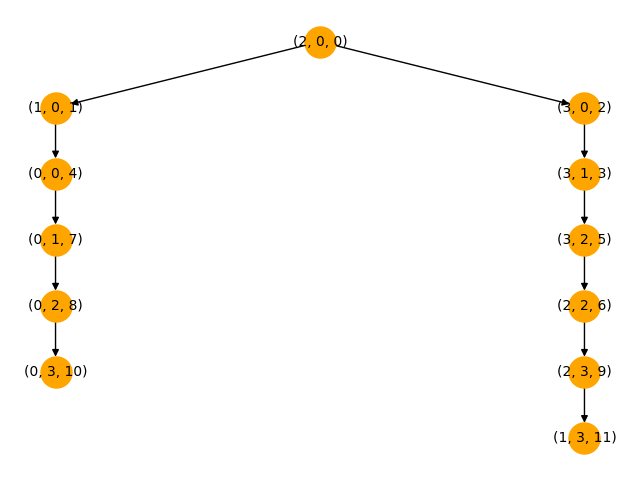
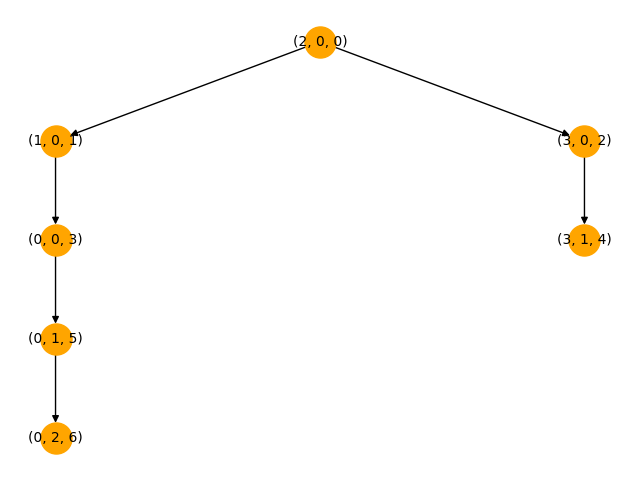
nombres_algoritmos

diff --git a/busquedas_no_informadas/profundidad_iterativa.py b/busquedas_no_informadas/profundidad_iterativa.py
@@ -14,7 +14,7 @@ def reconstruir_camino(nodo):
 
 def inicializar_estructura(lista_nodos_iniciales, visitado):
     for nodo in lista_nodos_iniciales:
-        visitado[nodo.fila][nodo.columna] = True
+        visitado[(nodo.fila, nodo.columna)] = True
     lista_nodos_iniciales.reverse()
     return lista_nodos_iniciales
 
@@ -31,29 +31,25 @@ def busqueda_profundidad_iterativa(tablero, lista_nodos_iniciales, meta, maximo_
         while pila_iterativa:
             nodo_actual = pila_iterativa.pop()
 
-            # Verificar si llegamos al nodo final
-            if padre.fila == fila_final and padre.colum == columna_final:
-                caminito = reconstruir_camino(padre)
-                print("Camino completo:", caminito)
-                visualizar_arbol_jerarquico(arbol_conexiones, fila_inicio, columna_inicio, 0, caminito)
-                return True
+            # Verificar si hemos alcanzado el nodo meta
+            if nodo_actual.fila == fila_final and nodo_actual.columna == columna_final:
+                return (True, reconstruir_camino(nodo_actual))
 
-            # Marcar nodo como visitado
-            if not visitado[padre.fila][padre.colum]:
-                visitado[padre.fila][padre.colum] = True
+            # Evitar expandir más allá del límite de profundidad
+            if nodo_actual.profundidad < limite:
                 hijos_temp = []
                 for movimiento in [(-1, 0), (0, 1), (1, 0), (0, -1)]:
                     nueva_fila = nodo_actual.fila + movimiento[0]
                     nueva_colum = nodo_actual.columna + movimiento[1]
 
-                    if es_valido(nueva_fila, nueva_colum, tablero) and tablero[nueva_fila][nueva_colum] != '#' and not visitado[nueva_fila][nueva_colum]:
+                    if es_valido(nueva_fila, nueva_colum, tablero) and tablero[nueva_fila][nueva_colum] != '#' and not visitado.get((nueva_fila, nueva_colum), False):
                         heuristica = calcular_heuristica(nueva_fila, nueva_colum, fila_final, columna_final)
-                        nuevo_nodo = Nodo(nueva_fila, nueva_colum, nodo_actual.costo + 1, heuristica, nodo_actual.pasos + 1, nodo_actual)
+                        nuevo_nodo = Nodo(nueva_fila, nueva_colum, nodo_actual.costo + 1, heuristica, nodo_actual)
                         hijos_temp.append(nuevo_nodo)
-                        visitado[nueva_fila][nueva_colum] = True
+                        visitado[(nueva_fila, nueva_colum)] = True
                         graph.graficar_arbol(nuevo_nodo)
+
                 # Expandir nodos en el orden especificado por invertir_orden
-                hijos_temp.reverse()
                 if invertir_orden:
                     hijos_temp.reverse()  # Invertir para procesar en el orden contrario
                 pila_iterativa.extend(hijos_temp)
@@ -65,22 +61,7 @@ def busqueda_profundidad_iterativa(tablero, lista_nodos_iniciales, meta, maximo_
         pila = siguiente_pila[::-1]
         invertir_orden = not invertir_orden  # Alternar el orden para la siguiente iteración
 
-    return (False, [])  # Si no se encuentra la meta dentro del límite dado
+    return (False, [ ])  # Si no se encuentra la meta dentro del límite dado
 
 if __name__ == "__main__":
     busqueda_profundidad_iterativa()
-
-
-
-
-
-
-
-
-
-
-
-
-
-
-

diff --git a/busquedas_no_informadas/Amplitud.py b/busquedas_no_informadas/Amplitud.py
@@ -3,8 +3,6 @@ import networkx as nx
 import matplotlib.pyplot as plt
 from clase_nodo.class_nodo import Nodo, calcular_heuristica
 
-arbol_conexiones = []  # Lista para almacenar las conexiones del árbol
-
 
 def es_valido(fila, columna, tablero):
     n, m = len(tablero), len(tablero[0])
@@ -23,7 +21,7 @@ def inicializar_estrucuras_de_datos(lista_nodos_iniciales, visitado):
         visitado[(nodo.fila, nodo.columna)] = True
     return lista_nodos_iniciales
 
-def bfs(tablero, lista_nodos_iniciales, meta, maximo_iteraciones, visitado, graph):
+def busqueda_Amplitud(tablero, lista_nodos_iniciales, meta, maximo_iteraciones, visitado, graph):
     fila_final, columna_final = meta
  
     cola = deque(inicializar_estrucuras_de_datos(lista_nodos_iniciales, visitado))
@@ -34,7 +32,6 @@ def bfs(tablero, lista_nodos_iniciales, meta, maximo_iteraciones, visitado, grap
         
         if nodo_actual.profundidad == maximo_iteraciones:
             cola.insert(0, nodo_actual)
-            print(cola)
             return (False,  list(cola))
 
         fila, columna = nodo_actual.fila, nodo_actual.columna
@@ -48,7 +45,7 @@ def bfs(tablero, lista_nodos_iniciales, meta, maximo_iteraciones, visitado, grap
             
             if es_valido(nueva_fila, nueva_columna, tablero) and not visitado.get((nueva_fila, nueva_columna), False):
                 heuristica = calcular_heuristica(nueva_fila, nueva_columna, fila_final, columna_final)
-                nuevo_nodo = Nodo(nueva_fila, nueva_columna, nodo_actual.costo + 1, heuristica, nodo_actual.pasos + 1, nodo_actual)
+                nuevo_nodo = Nodo(nueva_fila, nueva_columna, nodo_actual.costo + 1, heuristica, nodo_actual)
                 cola.append(nuevo_nodo)
                 visitado[(nueva_fila, nueva_columna)] = True
                 graph.graficar_arbol(nuevo_nodo)
@@ -60,5 +57,5 @@ def bfs(tablero, lista_nodos_iniciales, meta, maximo_iteraciones, visitado, grap
     
 
 if __name__ == "__main__":
-    bfs()  # Ejecutar BFS y obtener el camino
+    busqueda_Amplitud()  # Ejecutar BFS y obtener el camino
   

diff --git a/busquedas_no_informadas/costoUniforme.py b/busquedas_no_informadas/costoUniforme.py
@@ -20,7 +20,7 @@ def inicializar_estrucuras_de_datos(lista_nodos_iniciales, visitado):
         cola.put((nodo.costo, nodo))
     return cola
 
-def ucs(tablero, lista_nodos_iniciales, meta, maximo_iteraciones,visitado, graph):
+def busqueda_Costouniforme(tablero, lista_nodos_iniciales, meta, maximo_iteraciones,visitado, graph):
 
     fila_final, columna_final = meta
     cola = inicializar_estrucuras_de_datos(lista_nodos_iniciales, visitado)
@@ -49,7 +49,7 @@ def ucs(tablero, lista_nodos_iniciales, meta, maximo_iteraciones,visitado, graph
             
             if es_valido(nueva_fila, nueva_colum, tablero) and tablero[nueva_fila][nueva_colum] != '#' and not visitado.get((nueva_fila, nueva_colum), False):
                 heuristica = calcular_heuristica(nueva_fila, nueva_colum, fila_final, columna_final)
-                nuevo_nodo = Nodo(nueva_fila, nueva_colum, nodo_actual.costo + 1, heuristica,  nodo_actual.pasos + 1, nodo_actual)
+                nuevo_nodo = Nodo(nueva_fila, nueva_colum, nodo_actual.costo + 1, heuristica, nodo_actual)
              
                 visitado[(nueva_fila, nueva_colum)] = True
                 cola.put((nuevo_nodo.costo, nuevo_nodo))
@@ -59,4 +59,4 @@ def ucs(tablero, lista_nodos_iniciales, meta, maximo_iteraciones,visitado, graph
     return None
 
 if __name__ == "__main__":
-    ucs()  # Ejecutar UCS y obtener el camino
+    busqueda_Costouniforme()  # Ejecutar busqueda_Costouniforme y obtener el camino

diff --git a/busquedas_no_informadas/limitada_profundidad.py b/busquedas_no_informadas/limitada_profundidad.py
@@ -20,7 +20,7 @@ def inicializar_estrucuras_de_datos(lista_nodos_iniciales, visitado):
     lista_nodos_iniciales.reverse()  
     return  lista_nodos_iniciales
 
-def dls_limitProfundidad(tablero, lista_nodos_iniciales, meta, maximo_iteraciones, visitado, graph):
+def busqueda_Limitaprofundidad(tablero, lista_nodos_iniciales, meta, maximo_iteraciones, visitado, graph):
     fila_final, columna_final = meta
     # Pila para realizar DFS
     pila = inicializar_estrucuras_de_datos(lista_nodos_iniciales, visitado)
@@ -49,7 +49,7 @@ def dls_limitProfundidad(tablero, lista_nodos_iniciales, meta, maximo_iteracione
 
             if es_valido(nueva_fila, nueva_colum, tablero) and tablero[nueva_fila][nueva_colum] != '#' and not visitado.get((nueva_fila, nueva_colum), False):
                 heuristica = calcular_heuristica(nueva_fila, nueva_colum, fila_final, columna_final)
-                nuevo_nodo = Nodo(nueva_fila, nueva_colum, nodo_actual.costo + 1, heuristica, nodo_actual.pasos + 1, nodo_actual)
+                nuevo_nodo = Nodo(nueva_fila, nueva_colum, nodo_actual.costo + 1, heuristica, nodo_actual)
                 
                 hijos_temp.append(nuevo_nodo) 
                 visitado[(nueva_fila, nueva_colum)] = True
@@ -62,4 +62,4 @@ def dls_limitProfundidad(tablero, lista_nodos_iniciales, meta, maximo_iteracione
     return None
 
 if __name__ == "__main__":
-   dls_limitProfundidad()
+   busqueda_Limitaprofundidad()

diff --git a/busquedas_no_informadas/Profundidad.py b/busquedas_no_informadas/Profundidad.py
@@ -20,7 +20,7 @@ def inicializar_estrucuras_de_datos(lista_nodos_iniciales, visitado):
     lista_nodos_iniciales.reverse()  
     return  lista_nodos_iniciales
 
-def dfs_izquierda_derecha(tablero, lista_nodos_iniciales, meta, maximo_iteraciones, visitado, graph):
+def busqueda_Profundidad(tablero, lista_nodos_iniciales, meta, maximo_iteraciones, visitado, graph):
     fila_final, columna_final = meta
     # Pila para realizar DFS
     pila = inicializar_estrucuras_de_datos(lista_nodos_iniciales, visitado)
@@ -49,7 +49,7 @@ def dfs_izquierda_derecha(tablero, lista_nodos_iniciales, meta, maximo_iteracion
 
             if es_valido(nueva_fila, nueva_colum, tablero) and tablero[nueva_fila][nueva_colum] != '#' and not visitado.get((nueva_fila, nueva_colum), False):
                 heuristica = calcular_heuristica(nueva_fila, nueva_colum, fila_final, columna_final)
-                nuevo_nodo = Nodo(nueva_fila, nueva_colum, nodo_actual.costo + 1, heuristica, nodo_actual.pasos + 1, nodo_actual)
+                nuevo_nodo = Nodo(nueva_fila, nueva_colum, nodo_actual.costo + 1, heuristica, nodo_actual)
                 
                 hijos_temp.append(nuevo_nodo) 
                 visitado[(nueva_fila, nueva_colum)] = True
@@ -62,4 +62,4 @@ def dfs_izquierda_derecha(tablero, lista_nodos_iniciales, meta, maximo_iteracion
     return None
 
 if __name__ == "__main__":
-    dfs_izquierda_derecha()
+    busqueda_Profundidad()

diff --git a/main.py b/main.py
@@ -1,8 +1,8 @@
-from busquedas_no_informadas.Amplitud import  bfs
-from busquedas_no_informadas.Profundidad import  dfs_izquierda_derecha
-from busquedas_no_informadas.costoUniforme import ucs
+from busquedas_no_informadas.Amplitud import  busqueda_Amplitud
+from busquedas_no_informadas.Profundidad import  busqueda_Profundidad
+from busquedas_no_informadas.costoUniforme import busqueda_Costouniforme
 from busquedas_no_informadas.Avara import busqueda_avara
-from busquedas_no_informadas.limitada_profundidad import dls_limitProfundidad
+from busquedas_no_informadas.limitada_profundidad import busqueda_Limitaprofundidad
 from busquedas_no_informadas.profundidad_iterativa import busqueda_profundidad_iterativa
 
 
@@ -11,7 +11,7 @@ from clase_nodo.class_nodo import Nodo
 
 
 visitado = {}
-lista_algoritmos = [dfs_izquierda_derecha, busqueda_avara, ucs, bfs, dls_limitProfundidad]
+lista_algoritmos = [busqueda_Amplitud, busqueda_Profundidad]
 
 
 tablero = [

diff --git a/busquedas_no_informadas/Avara.py b/busquedas_no_informadas/Avara.py
@@ -49,7 +49,7 @@ def busqueda_avara(tablero, lista_nodos_iniciales, meta, maximo_iteraciones,visi
             
             if es_valido(nueva_fila, nueva_colum, tablero) and tablero[nueva_fila][nueva_colum] != '#' and not visitado.get((nueva_fila, nueva_colum), False):
                 heuristica = calcular_heuristica(nueva_fila, nueva_colum, fila_final, columna_final)
-                nuevo_nodo = Nodo(nueva_fila, nueva_colum, nodo_actual.costo + 1, heuristica,  nodo_actual.pasos + 1, nodo_actual)
+                nuevo_nodo = Nodo(nueva_fila, nueva_colum, nodo_actual.costo + 1, heuristica, nodo_actual)
                 visitado[(nueva_fila, nueva_colum)] = True
                 cola.put((heuristica, nuevo_nodo))
                 graph.graficar_arbol(nuevo_nodo)

diff --git a/clase_nodo/class_nodo.py b/clase_nodo/class_nodo.py
@@ -1,18 +1,16 @@
 nodo_id = 0  # Contador para nodos únicos
 
 class Nodo:
-    def __init__(self, fila, columna, costo, heuristica, pasos=0, padre=None):
+    def __init__(self, fila, columna, costo, heuristica, padre=None):
         global nodo_id  # Declaración global
         self.fila = fila
         self.columna = columna
-        self.pasos = pasos
         self.padre = padre
         self.profundidad = 0 if padre is None else padre.profundidad + 1
         self.id = nodo_id  # Asignar un ID único al nodo
         nodo_id += 1  # Incrementar el ID para el próximo nodo
         self.costo = costo
         self.heuristica = heuristica
-
 
 
     def __lt__(self, otro):

diff --git a/API.py b/API.py
@@ -1,7 +1,7 @@
 from flask import Flask, request, jsonify
 from flask_cors import CORS
 
-from busquedas_no_informadas.Profundidad import dfs_izquierda_derecha
+from busquedas_no_informadas.Profundidad import busqueda_Profundidad
 from busquedas_no_informadas.Amplitud import bfs
 
 app = Flask(__name__, static_folder='web', static_url_path='/')
@@ -25,7 +25,7 @@ def run_algorithm():
 
     
     if algoritmo == 'limitada_profundidad':
-        dfs_izquierda_derecha(mapa, inicio, meta)
+        busqueda_Profundidad(mapa, inicio, meta)
         loadImagen = True
 
     else:
